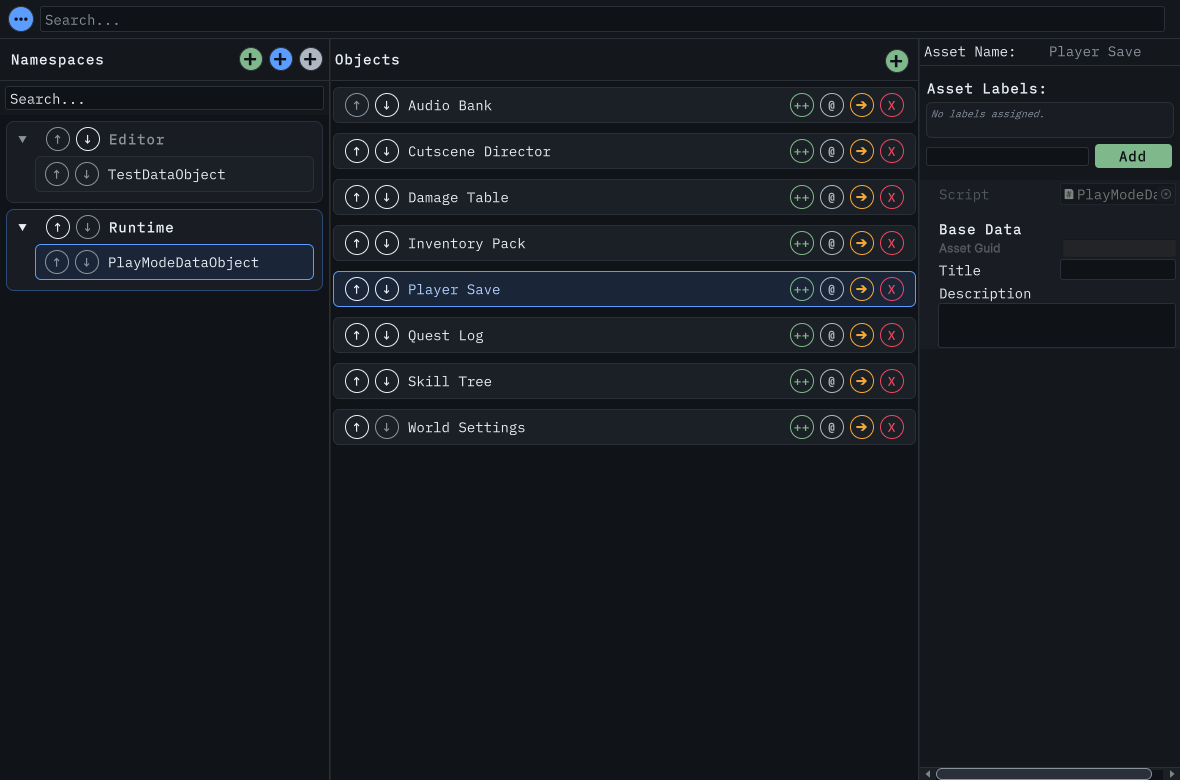
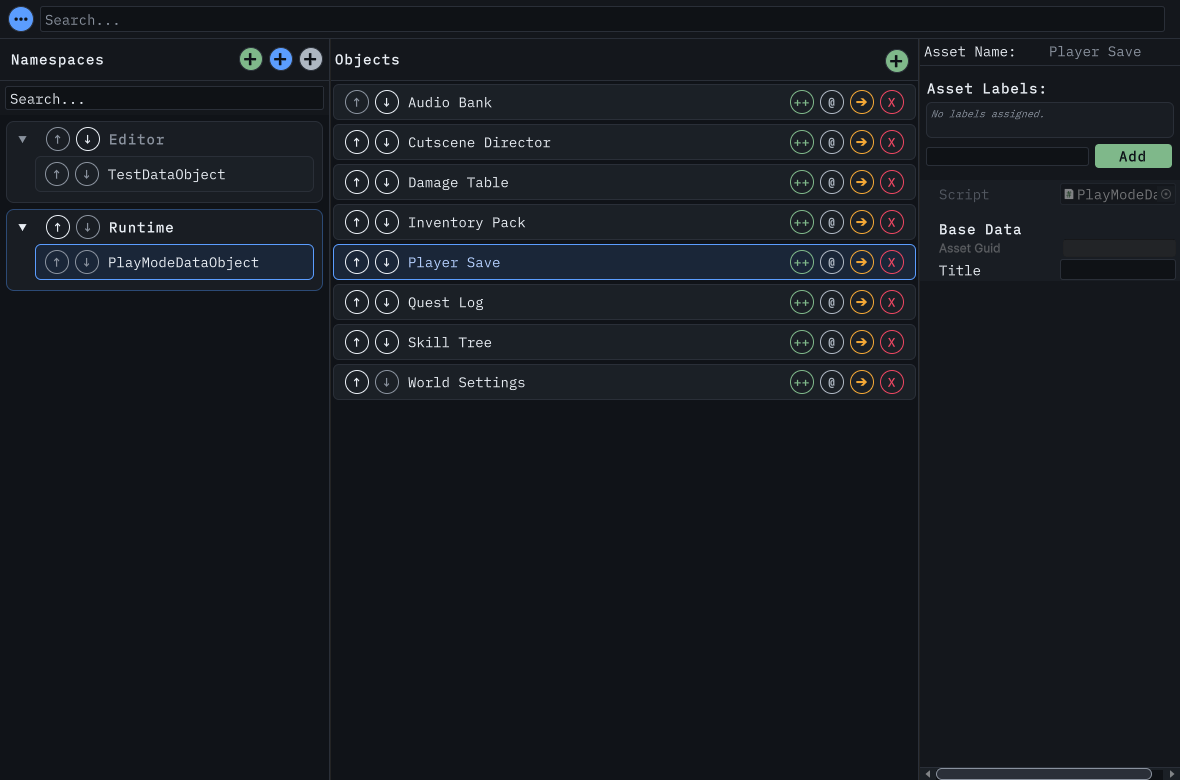
Reduce object row spacing
Object rows leave excessive vertical space. Reduce the fixed slot from 46 to 40 points while retaining card and control dimensions. Share the slot height with ListView virtualization.

Rendered Dx gap falls from 10 to 4 pixels at pixelsPerPoint 1, a 60 percent reduction. The new render regression fails at 10 points on the base and passes for all six shipped themes after the fix. Refresh the README layout capture and its pixel-verified lossless WebP.

The full EditMode rerun passes 395 tests. One earlier run failed an existing theme-reset color transition assertion; its focused rerun passes. The 17-step repository gate and scoped image exporter tests pass. Revert this commit to restore prior spacing.

Fixes #292.

Changed region(s): [[0.2746, 0.0923, 0.7932, 0.5846], [0.7932, 0.3692, 0.8847, 0.4]]

diff --git a/Tests/Editor/ObjectRowLayoutTests.cs b/Tests/Editor/ObjectRowLayoutTests.cs
@@ -1,0 +1,74 @@
+namespace WallstopStudios.DataVisualizer.Tests.Editor
+{
+    using System.Collections;
+    using System.Reflection;
+    using NUnit.Framework;
+    using UnityEditor;
+    using UnityEngine;
+    using UnityEngine.TestTools;
+    using UnityEngine.UIElements;
+    using WallstopStudios.DataVisualizer.Editor.Styles;
+    using DataVisualizerWindow = WallstopStudios.DataVisualizer.Editor.DataVisualizer;
+
+    public sealed class ObjectRowLayoutTests
+    {
+        [UnityTest]
+        public IEnumerator ShouldKeepCompactRowsAndControlsInsideEveryShippedTheme()
+        {
+            using TestCleanupScope cleanup = new();
+            FieldInfo instanceField = typeof(DataVisualizerWindow).GetField("Instance", BindingFlags.Static | BindingFlags.NonPublic);
+            object previousInstance = instanceField.GetValue(null);
+            cleanup.Defer(() => instanceField.SetValue(null, previousInstance));
+            DataVisualizerWindow owner = ScriptableObject.CreateInstance<DataVisualizerWindow>();
+            cleanup.Defer(() => Object.DestroyImmediate(owner));
+            MethodInfo makeRow = typeof(DataVisualizerWindow).GetMethod("MakeObjectRow", BindingFlags.Instance | BindingFlags.NonPublic);
+            LayoutTestWindow window = ScriptableObject.CreateInstance<LayoutTestWindow>();
+            cleanup.Defer(window.Close);
+            window.position = new Rect(100, 100, 700, 200);
+            VisualElement root = window.rootVisualElement;
+            root.AddToClassList("dataviz-root");
+            const string folder = "Packages/com.wallstop-studios.data-visualizer/Editor/DataVisualizer/Styles/";
+            root.styleSheets.Add(AssetDatabase.LoadAssetAtPath<StyleSheet>(folder + "DataVisualizerStyles.uss"));
+            VisualElement first = (VisualElement)makeRow.Invoke(owner, null);
+            VisualElement second = (VisualElement)makeRow.Invoke(owner, null);
+            first.Q<Label>("object-item-label").text = "First object";
+            second.Q<Label>("object-item-label").text = "Second object";
+            root.Add(first);
+            root.Add(second);
+            DataVisualizerThemeSelection selection = new();
+            cleanup.Defer(() => selection.Apply(null, null));
+            window.ShowUtility();
+
+            string[] themes = { "Dx", "Classic", "Nord", "Dracula", "Compact", "Minimal" };
+            foreach (string name in themes)
+            {
+                DataVisualizerThemeSettings theme = AssetDatabase.LoadAssetAtPath<DataVisualizerThemeSettings>(folder + name + ".asset");
+                Assert.That(theme != null, name);
+                selection.Apply(root, theme);
+                yield return null;
+                EditorSurfaceCapture.SettleLayout(window);
+                VisualElement firstBox = first.Q("object-item-box");
+                VisualElement secondBox = second.Q("object-item-box");
+                float gap = secondBox.worldBound.yMin - firstBox.worldBound.yMax;
+                Assert.That(0 <= gap, name + " cards must not overlap");
+                if (name == "Dx")
+                {
+                    Assert.LessOrEqual(gap, 5f, "halve the previous 10-point default gap");
+                }
+
+                foreach (VisualElement row in new[] { first, second })
+                {
+                    VisualElement box = row.Q("object-item-box");
+                    Assert.That(row.worldBound.yMin <= box.worldBound.yMin, name);
+                    Assert.That(box.worldBound.yMax <= row.worldBound.yMax, name);
+                    foreach (Button button in box.Query<Button>().ToList())
+                    {
+                        Assert.That(0 < button.worldBound.height, name);
+                        Assert.That(box.worldBound.yMin <= button.worldBound.yMin, name);
+                        Assert.That(button.worldBound.yMax <= box.worldBound.yMax, name);
+                    }
+                }
+            }
+        }
+    }
+}

diff --git a/Editor/DataVisualizer/DataVisualizer.cs b/Editor/DataVisualizer/DataVisualizer.cs
@@ -85,11 +85,10 @@ namespace WallstopStudios.DataVisualizer.Editor
         private const int AsyncLoadPriorityBatchSize = 100;
 
         /*
-            Uniform row height for the virtualized object ListView. Measured live: the .object-item
-            box renders at ~40px; the slot is forced to this height and centers the box, so the extra
-            6px becomes a 3px gap above and below each row.
+            Keep the fixed-height object ListView slots close to the card height to reduce
+            empty vertical space. Card padding and controls keep their existing dimensions.
         */
-        private const float ObjectRowFixedHeight = 46f;
+        private const float ObjectRowFixedHeight = 40f;
 
         internal static DataVisualizer Instance;
 

diff --git a/CHANGELOG.md b/CHANGELOG.md
@@ -8,6 +8,8 @@ The format is based on [Keep a Changelog](https://keepachangelog.com/en/1.1.0/),
 
 ### Changed
 
+- Reduce the vertical gap between object rows by at least half (#292).
+
 - Point new installs and documentation links to Ambiguous-Interactive/DxVisualizer. Update site bookmarks to <https://ambiguous-interactive.github.io/DxVisualizer/>; the old Pages
   site does not redirect. Existing Git installs keep working (#151).
 
